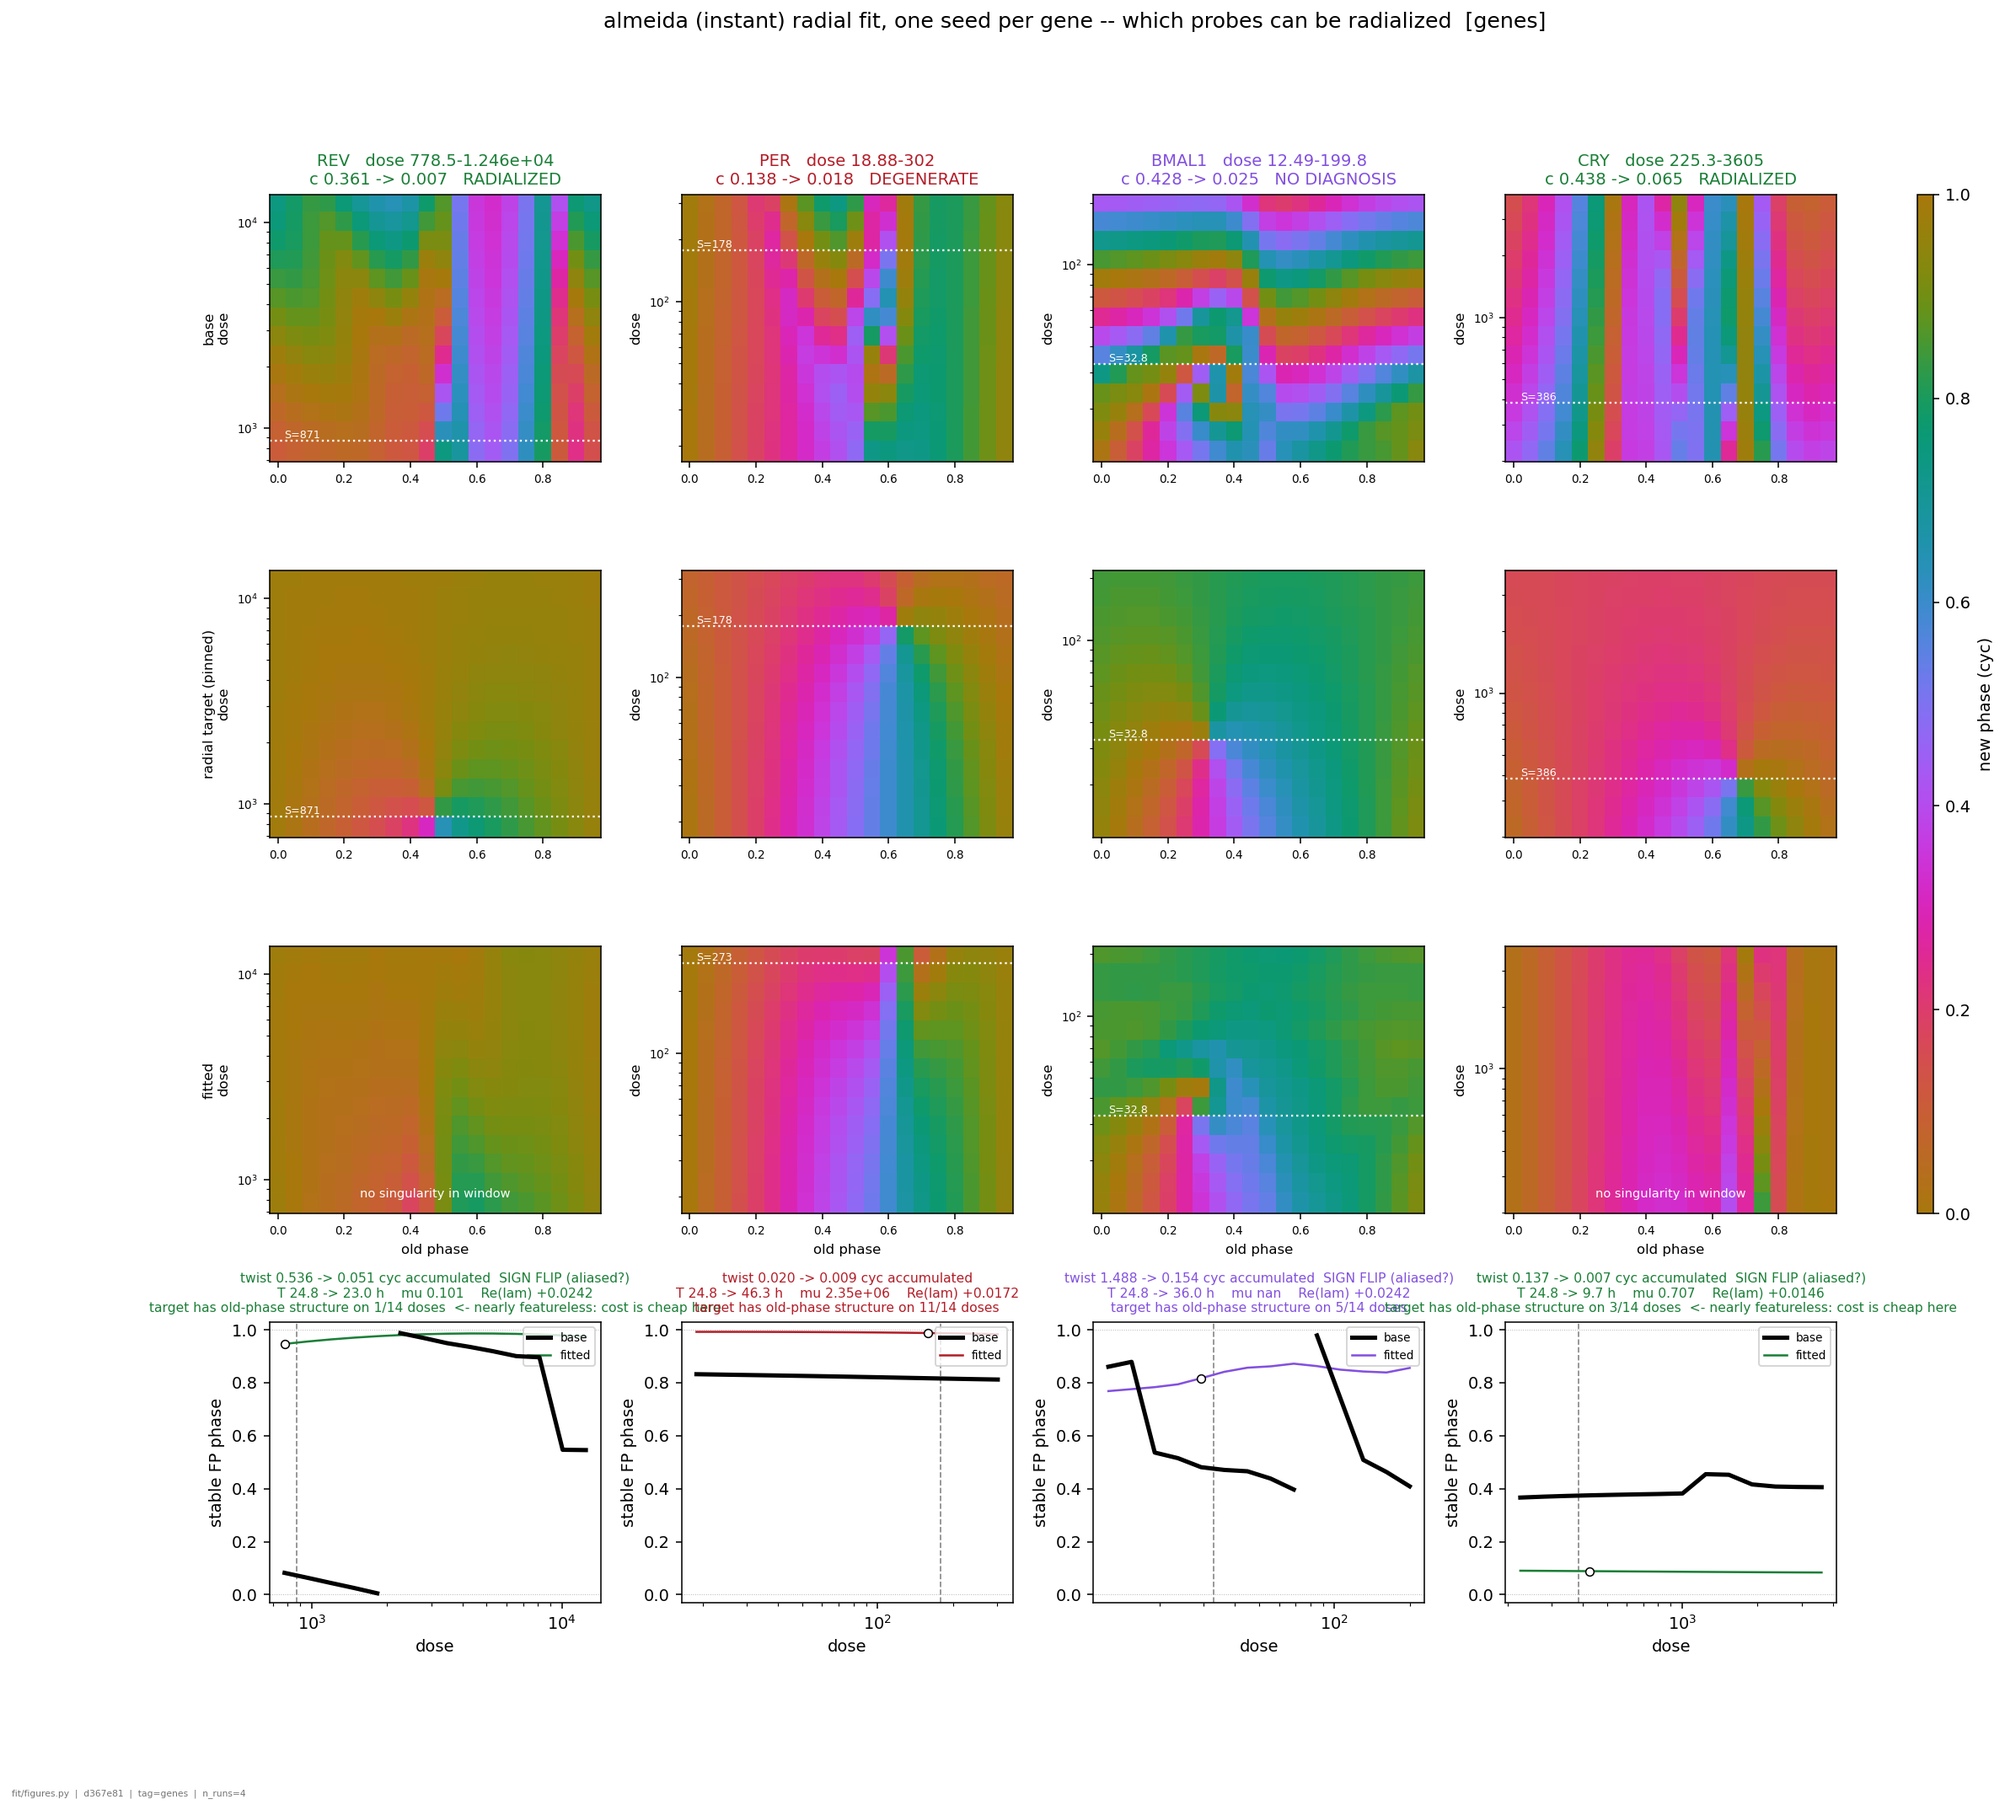
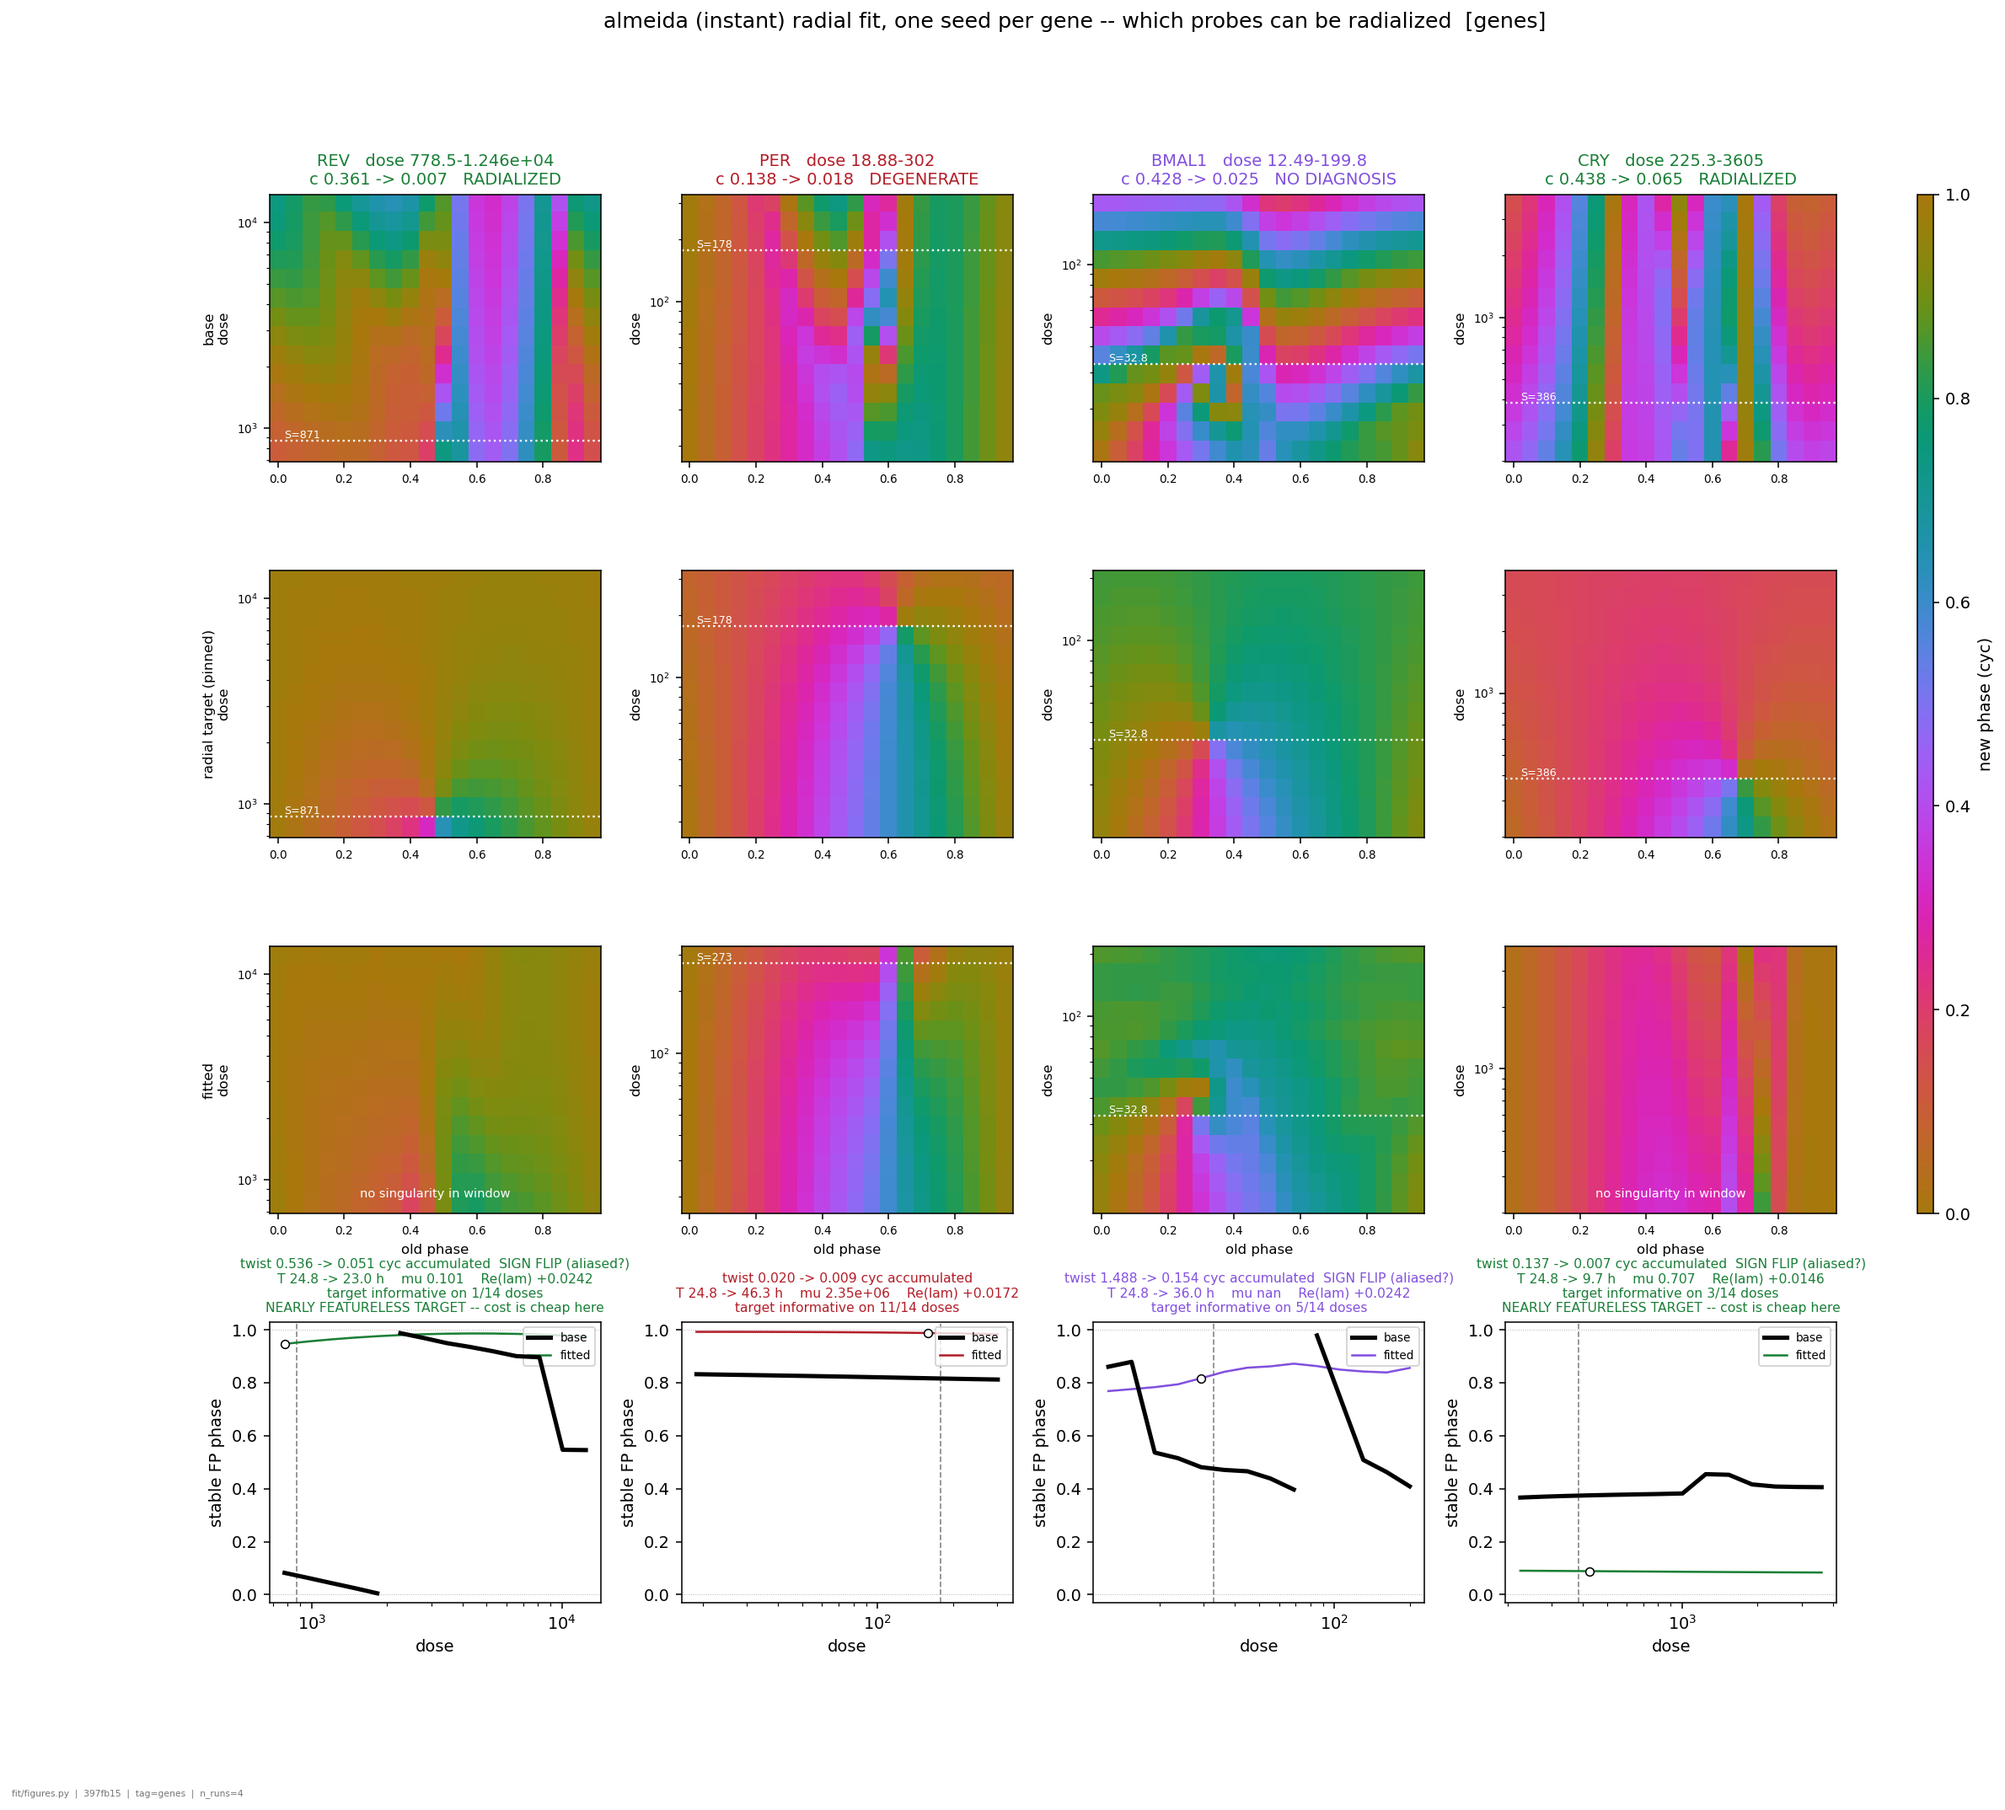
Campaign figures: shorter gene captions, and a clear error on an un-aggregated npz
A per-task seeds_*.npz has the same filename and the same first four keys as an
aggregated one, so _load hands it straight to fig_seeds; it now says which keys
are missing and which command produces them, instead of a KeyError six panels in.

diff --git a/fit/figures.py b/fit/figures.py
@@ -526,6 +526,18 @@ def fig_seeds(z):
     that differ only by a change of units are at distance 0 (REPO_MAP hazard 6). Without that,
     a gauge motion would read as a distinct basin and every campaign would look multimodal.
     """
+    # A PER-TASK `seeds_*.npz` -- the one `run_seeds._compare_seeds` writes -- has the same
+    # name and the same first four keys as an aggregated one, so `_load` will happily hand one
+    # over. It carries only (seeds, v, cost, dist): no verdicts and no surfaces, which is the
+    # whole reason fit/aggregate.py exists. Say that, rather than dying on a KeyError six
+    # panels in.
+    missing = [k for k in ('verdict', 'ptc_fit', 'labels', 'ptc_target_used') if k not in z]
+    if missing:
+        raise SystemExit(
+            f"this looks like a PER-TASK seeds npz, not an aggregated one (missing "
+            f"{', '.join(missing)}). It compares only the seeds that shared one array task. "
+            f"Run `python -m fit.aggregate --model {_CTX['model']} --tag <campaign>` and plot "
+            f"the tag it writes.")
     lab, cost = z['labels'], np.asarray(z['cost'], float)
     D, ok = np.asarray(z['dist'], float), _usable(z)
     n = len(lab)
@@ -892,8 +904,8 @@ def fig_genes(z):
                      f"{float(z['fit__parts_period'][i]):.1f} h    "
                      f"mu {float(z['fit__mu'][i]):.3g}    "
                      f"Re(lam) {float(z['fit__parts_re_lambda'][i]):+.4f}\n"
-                     f"target has old-phase structure on {n_inf}/{len(sp)} doses"
-                     + ('  <- nearly featureless: cost is cheap here'
+                     f"target informative on {n_inf}/{len(sp)} doses"
+                     + ('\nNEARLY FEATURELESS TARGET -- cost is cheap here'
                         if n_inf <= len(sp) // 4 else ''),
                      fontsize=8, color=vc)
     fig.colorbar(im, cax=fig.add_subplot(gs[0:3, n]), label='new phase (cyc)')
